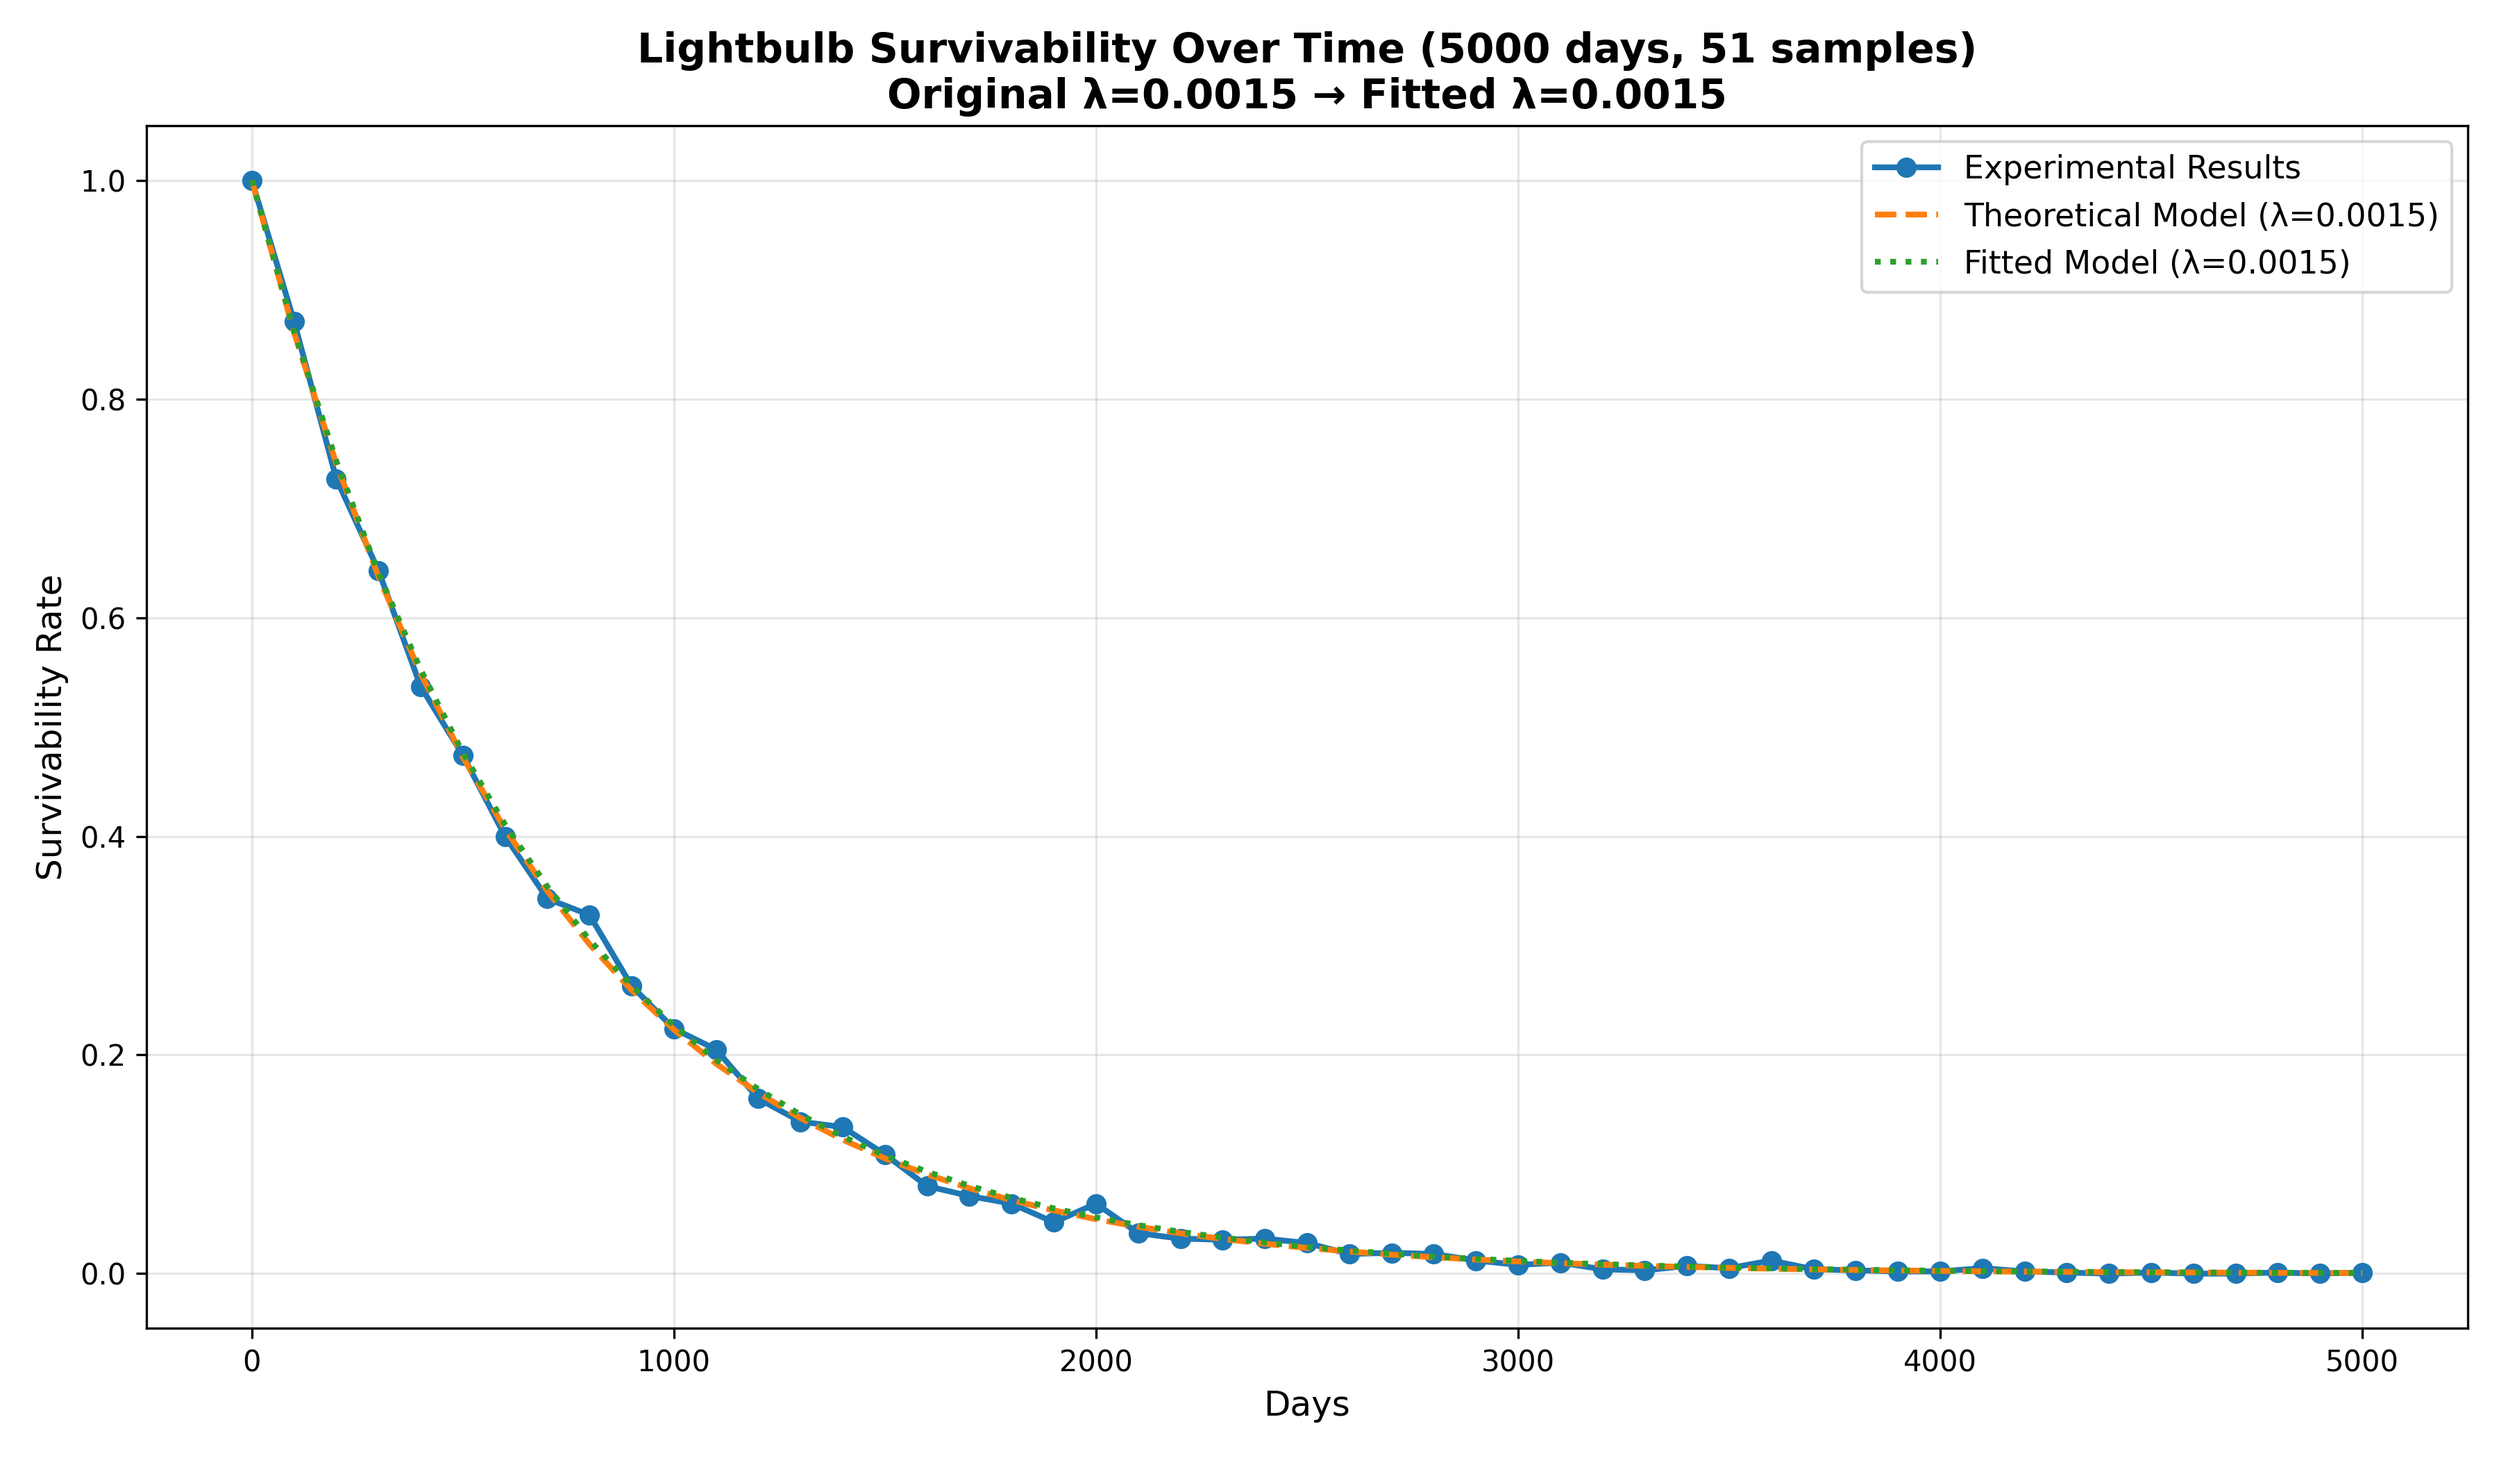
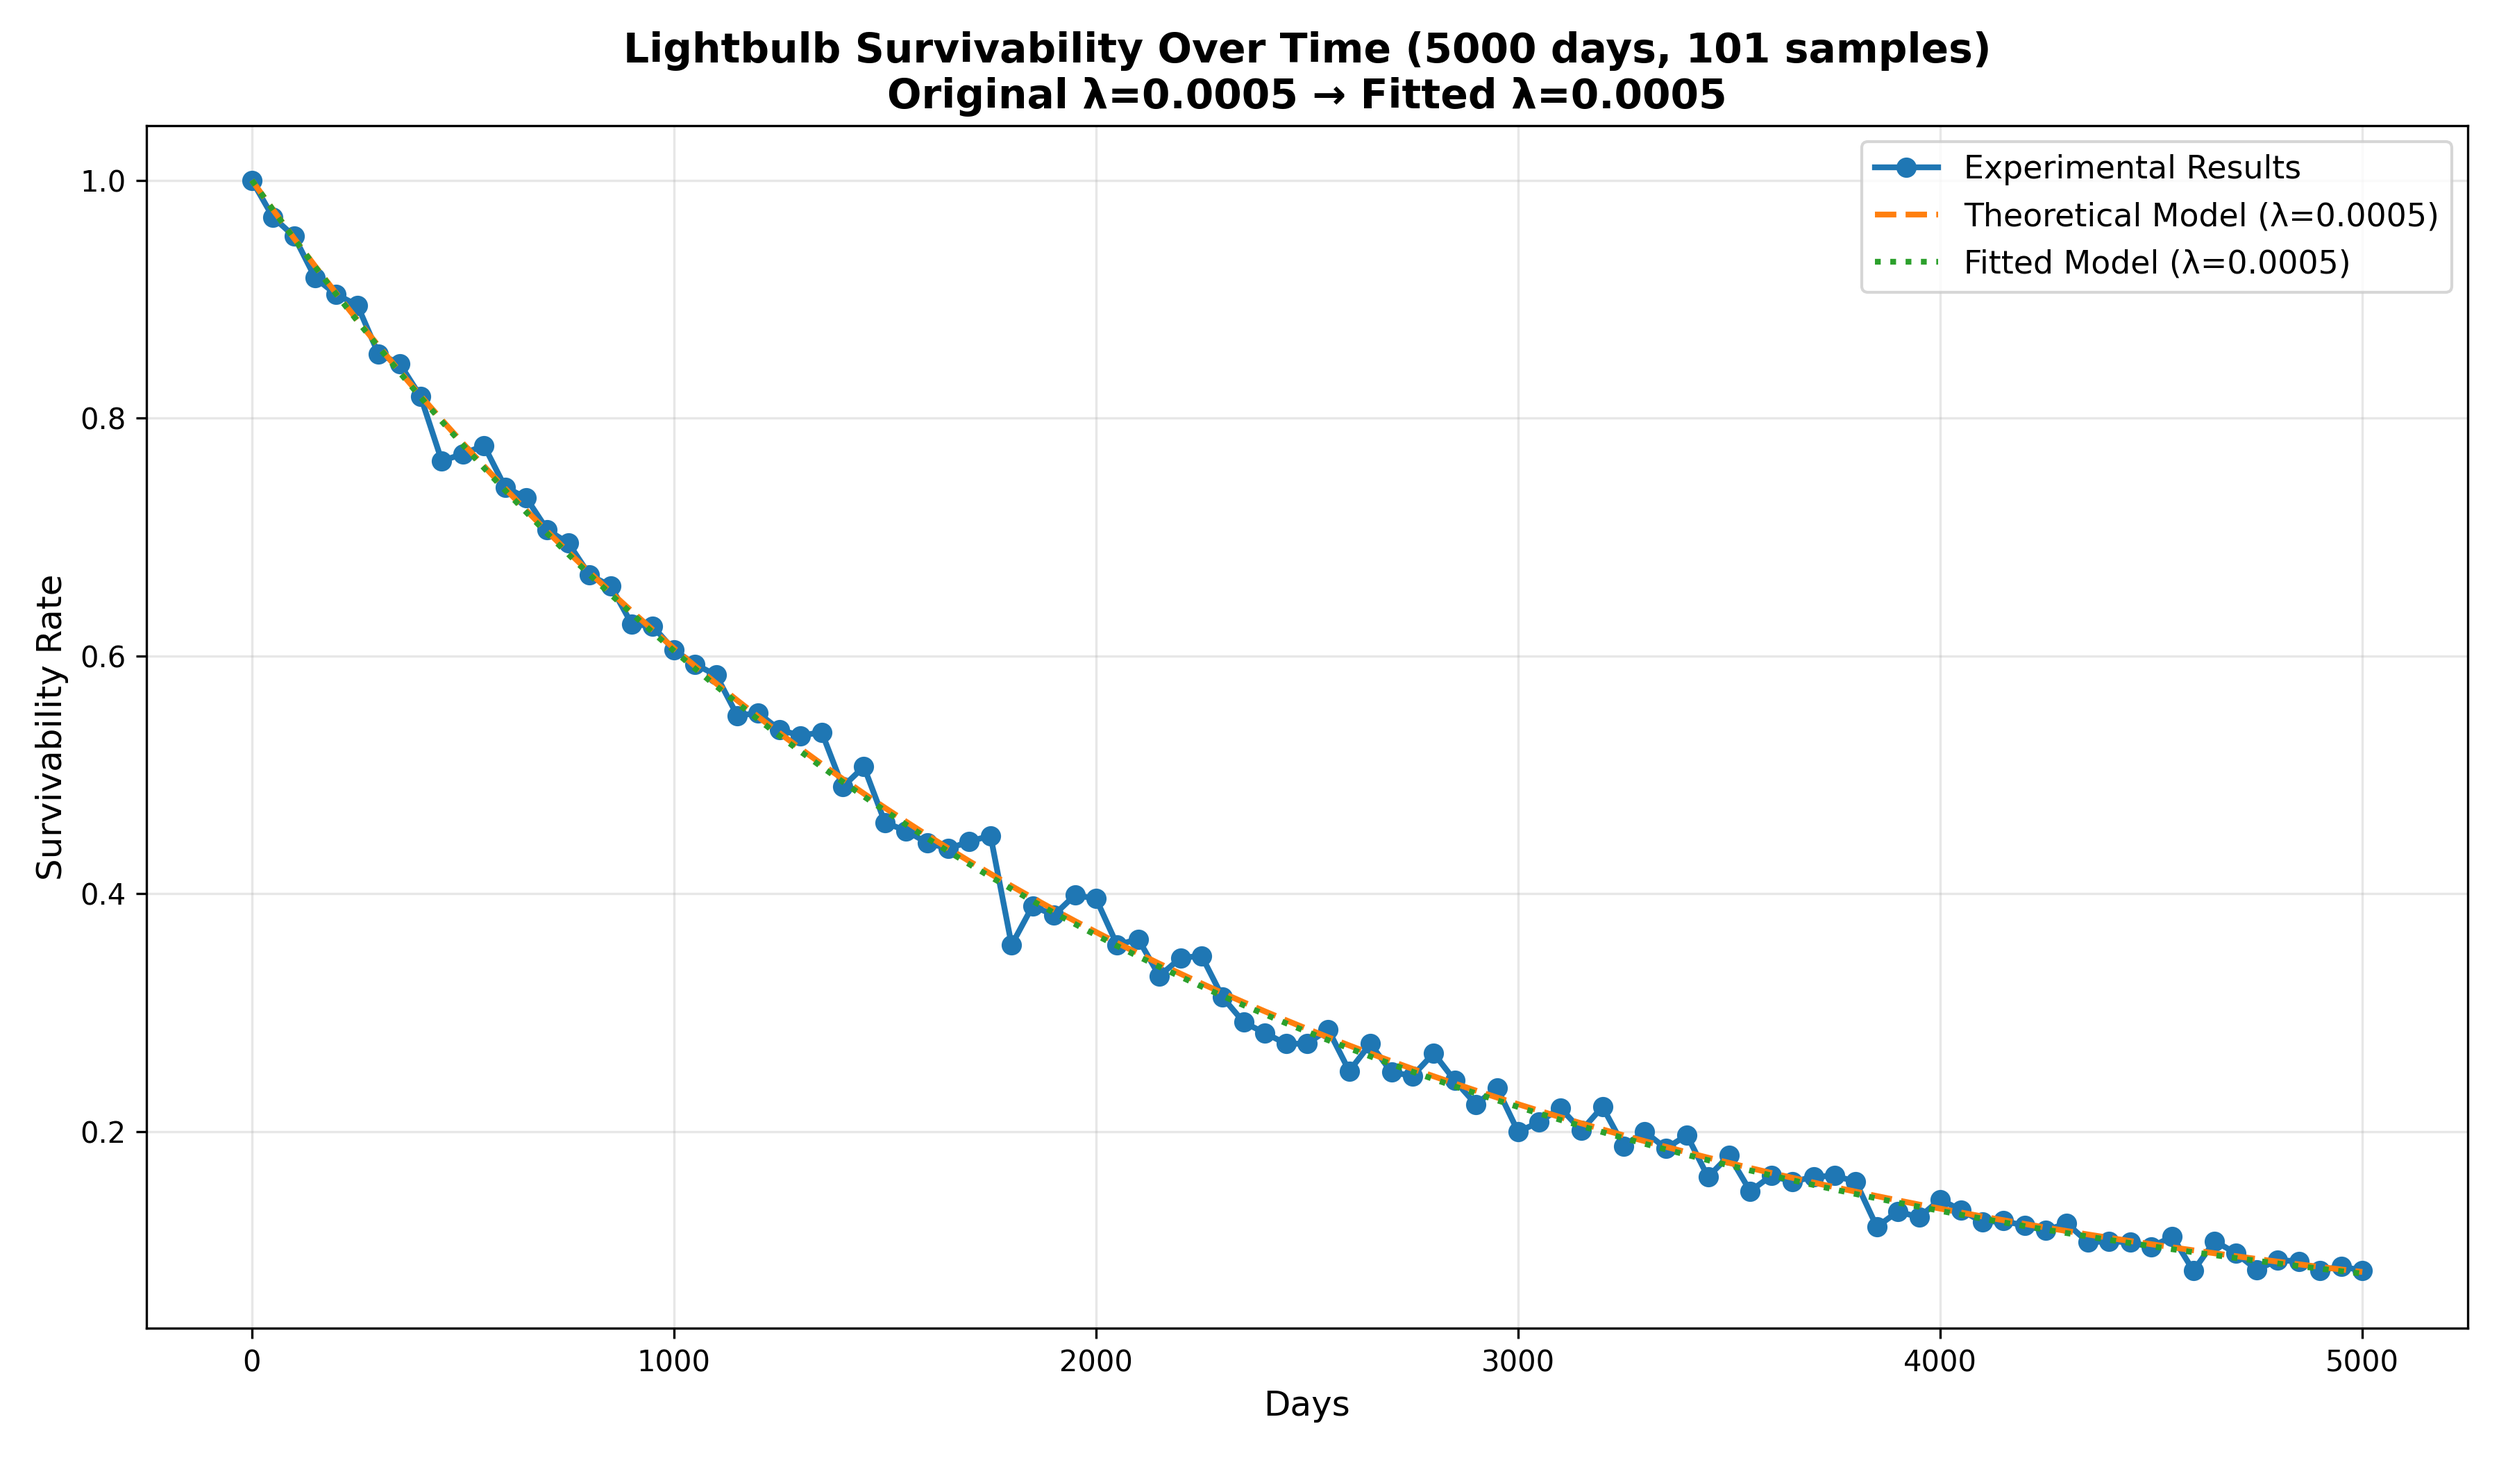
Now the final touches

diff --git a/src/lightbulb_survivability.py b/src/lightbulb_survivability.py
@@ -179,31 +179,32 @@ if __name__ == '__main__':
     print("LIGHTBULB SURVIVABILITY SIMULATION")
     print("=" * 70)
     
-    # Experiment 1: Known failure probability
-    print("\n[Experiment 1] Known Failure Probability")
+    # ============ CONFIGURATION ============
+    NOISE_LEVEL = random.randint(30, 100) / 100  # Percentage noise (0.50 = ±50% of the failure rate)
+    BASE_FAILURE_RATE = 0.001  # Base failure probability for experiments
+    DATA_POINTS_INTERVAL = 50  # Interval for time points in days
+    # =======================================
+    
+    # Experiment: Unknown failure probability (random with noise)
+    print("\n[Experiment] Unknown Failure Probability (Random)")
     print("-" * 70)
+    
+    # Generate random failure rate with controlled noise
+    noise_amount = BASE_FAILURE_RATE * NOISE_LEVEL
+    unknown_failure_probability = round(random.uniform(
+        BASE_FAILURE_RATE - noise_amount,
+        BASE_FAILURE_RATE + noise_amount
+    ), 4)
+    print(f"Hidden failure probability: λ = {unknown_failure_probability:.4f}")
+    print(f"(Base: {BASE_FAILURE_RATE:.4f}, Noise: ±{NOISE_LEVEL*100:.0f}%)")
     
     experiment_settings = {
         'lifespan_in_days': 5000,
-        'failure_probability': 0.001,
+        'failure_probability': unknown_failure_probability,
         'quantity_of_runs': 1000
     }
     
-    experiments_outcomes = series_of_experiments(
-        experiment_settings['quantity_of_runs'],
-        experiment_settings['lifespan_in_days'],
-        experiment_settings['failure_probability']
-    )
-    print(f"Average Survivability over {experiment_settings['lifespan_in_days']} days: {experiments_outcomes:.4f}")
-
-    theoretical_survivability = get_theoretical_survivability(
-        experiment_settings['lifespan_in_days'],
-        experiment_settings['failure_probability']
-    )
-    print(f"Theoretical Survivability over {experiment_settings['lifespan_in_days']} days: {theoretical_survivability:.4f}")
-    print(f"Difference: {abs(experiments_outcomes - theoretical_survivability):.4f}")
-
-    time_points = list(range(0, experiment_settings['lifespan_in_days'] + 1, 100))
+    time_points = list(range(0, experiment_settings['lifespan_in_days'] + 1, DATA_POINTS_INTERVAL))
     experimental_results = [series_of_experiments(
         experiment_settings['quantity_of_runs'],
         days,
@@ -212,51 +213,19 @@ if __name__ == '__main__':
         days,
         experiment_settings['failure_probability']) for days in time_points]
     
+    # Fit using the entire time series of experimental data
+    fitted_lambda = fit_failure_probability_from_series(time_points, experimental_results)
+    print(f"Fitted failure probability: λ = {fitted_lambda:.4f}")
+    print(f"Estimation error: {abs(fitted_lambda - unknown_failure_probability):.6f}")
+    
     plot_experiment_outcomes(
         time_points=time_points,
         experimental_results=experimental_results,
         theoretical_results=theoretical_results,
         failure_probability=experiment_settings['failure_probability'],
-        lifespan_in_days=experiment_settings['lifespan_in_days']
-    )
-    
-    # Experiment 2: Unknown failure probability (random)
-    print("\n[Experiment 2] Unknown Failure Probability (Random)")
-    print("-" * 70)
-    
-    unknown_failure_probability = round(random.uniform(0.0005, 0.002), 4)
-    print(f"Hidden failure probability: λ = {unknown_failure_probability:.4f}")
-    
-    experiment_settings_2 = {
-        'lifespan_in_days': 5000,
-        'failure_probability': unknown_failure_probability,
-        'quantity_of_runs': 1000
-    }
-    
-    time_points_2 = list(range(0, experiment_settings_2['lifespan_in_days'] + 1, 100))
-    experimental_results_2 = [series_of_experiments(
-        experiment_settings_2['quantity_of_runs'],
-        days,
-        experiment_settings_2['failure_probability']) for days in time_points_2]
-    theoretical_results_2 = [get_theoretical_survivability(
-        days,
-        experiment_settings_2['failure_probability']) for days in time_points_2]
-    
-    # Fit using the entire time series of experimental data
-    fitted_lambda = fit_failure_probability_from_series(time_points_2, experimental_results_2)
-    print(f"Fitted failure probability: λ = {fitted_lambda:.4f}")
-    print(f"Estimation error: {abs(fitted_lambda - unknown_failure_probability):.6f}")
-    
-    plot_experiment_outcomes(
-        time_points=time_points_2,
-        experimental_results=experimental_results_2,
-        theoretical_results=theoretical_results_2,
-        failure_probability=experiment_settings_2['failure_probability'],
-        lifespan_in_days=experiment_settings_2['lifespan_in_days'],
+        lifespan_in_days=experiment_settings['lifespan_in_days'],
         fitted_failure_probability=fitted_lambda
     )
-    plt.savefig('lightbulb_survivability_plot_fitted.png', dpi=300)
-    print("✓ Fitted plot saved as 'lightbulb_survivability_plot_fitted.png'")
     
     print("\n" + "=" * 70)
     print("Simulations complete!")
